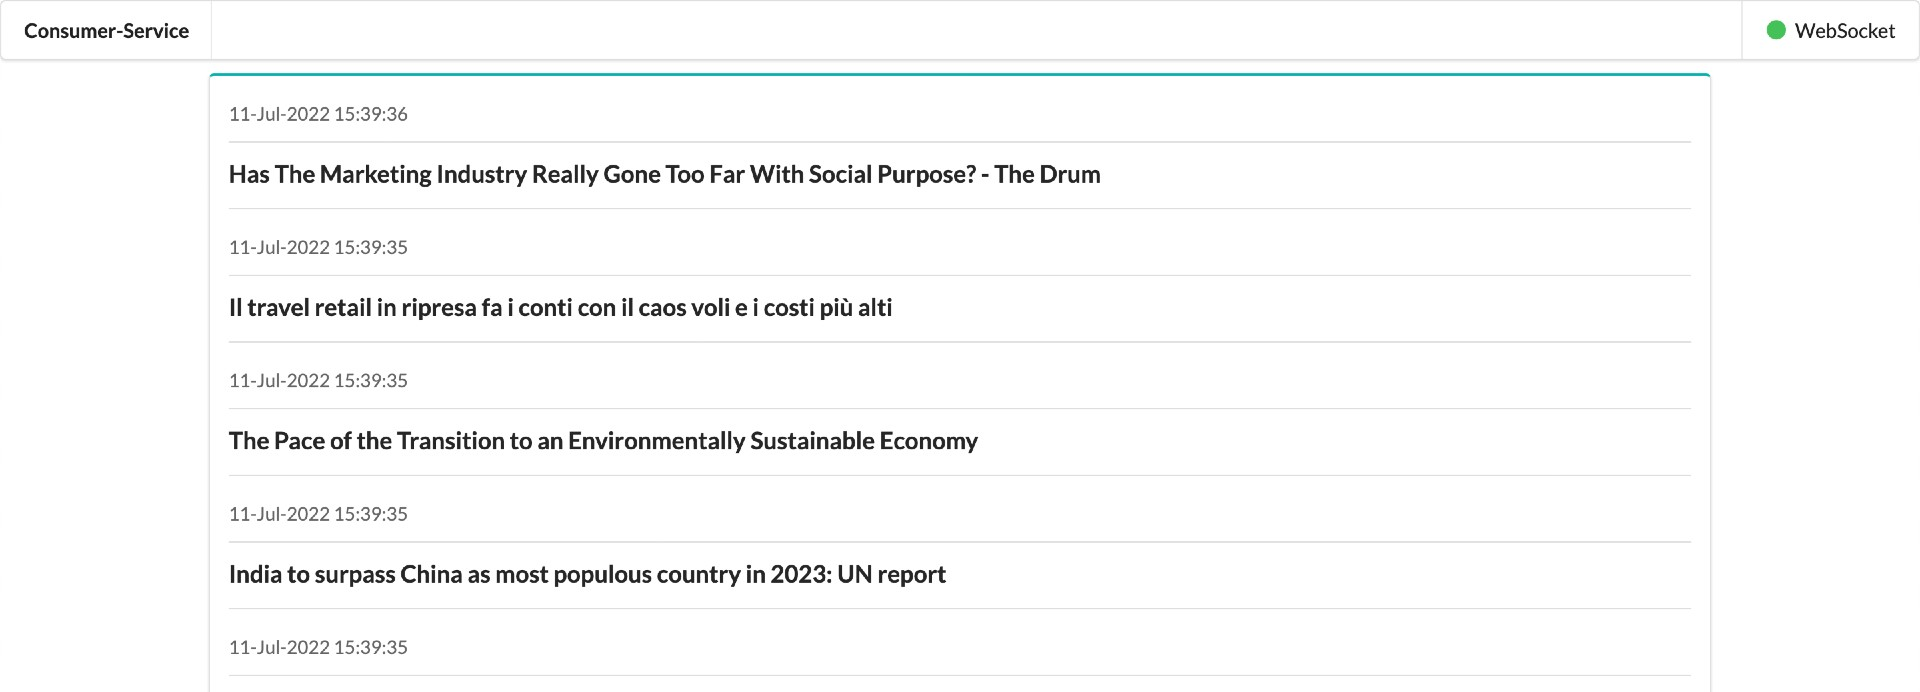
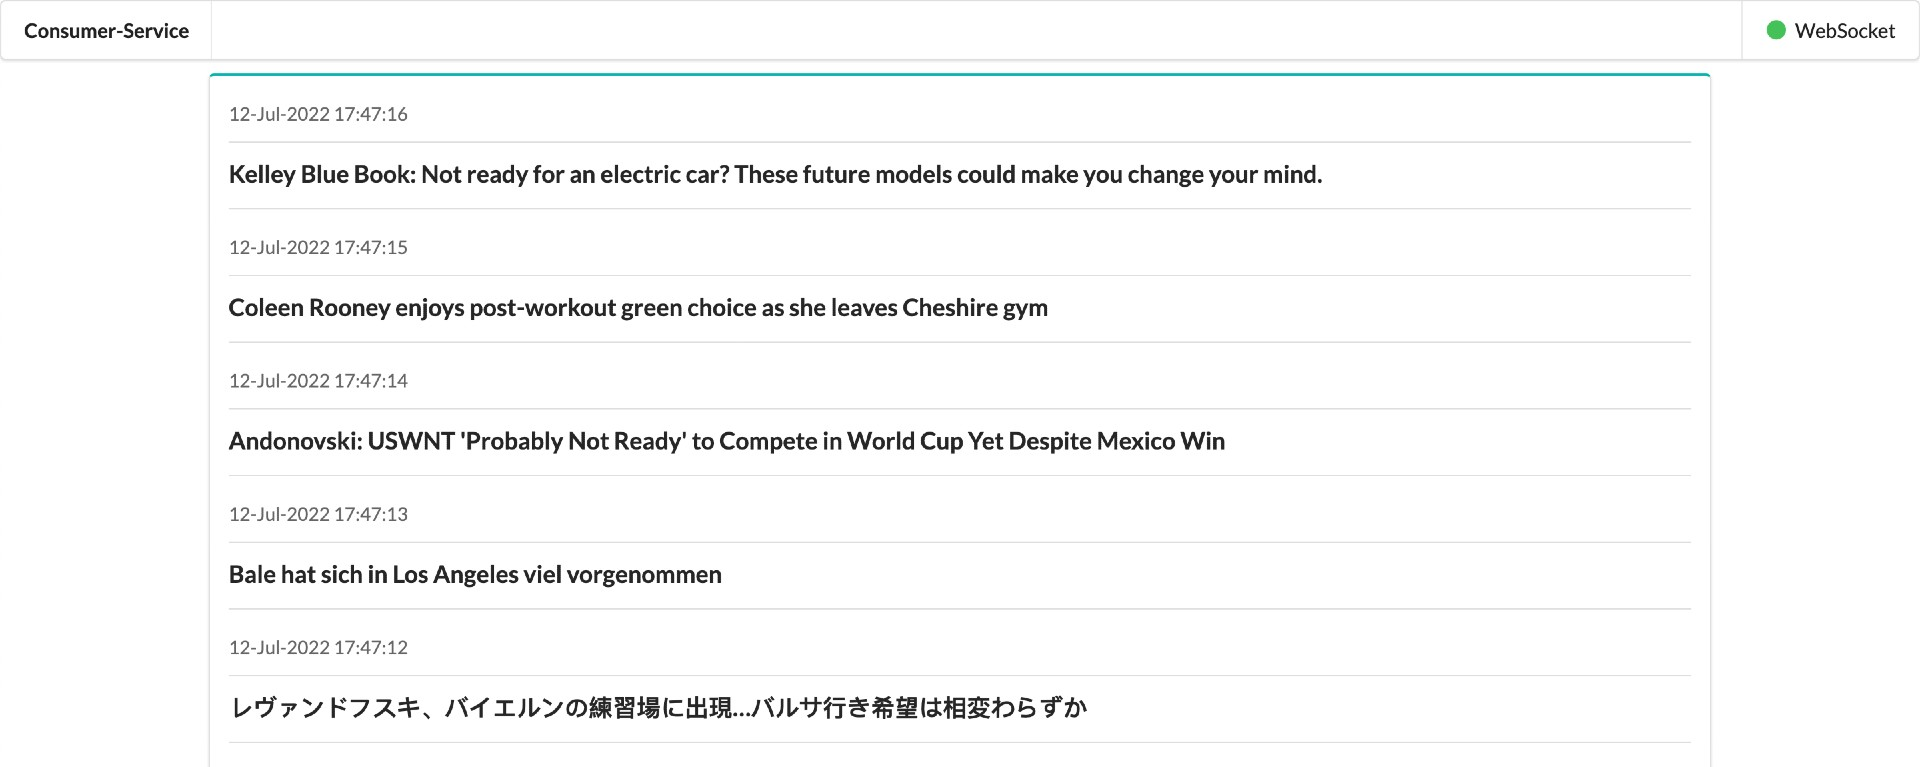
update README and consumer-service screenshot

diff --git a/README.md b/README.md
@@ -1,6 +1,6 @@
 # springboot-aws-localstack-dynamodb-sns-sqs
 
-In this project, we are going to use [`LocalStack`](https://localstack.cloud/) to simulate locally, some services provided by [`AWS Cloud`](https://aws.amazon.com/) such as [`SNS`](https://aws.amazon.com/sns/) and [`SQS`](https://aws.amazon.com/sqs/).
+In this project, we are going to use [`LocalStack`](https://localstack.cloud/) to simulate locally, some services provided by [`AWS Cloud`](https://aws.amazon.com/) such as [`DynamoDB`](https://aws.amazon.com/dynamodb/), [`SNS`](https://aws.amazon.com/sns/) and [`SQS`](https://aws.amazon.com/sqs/).
 
 ## Project Architecture
 
@@ -10,11 +10,11 @@ In this project, we are going to use [`LocalStack`](https://localstack.cloud/) t
 
 - ### producer-service
 
-  [`Spring Boot`](https://docs.spring.io/spring-boot/docs/current/reference/htmlsingle/) Java Web application that exposes a REST API to publish news.
+  [`Spring Boot`](https://docs.spring.io/spring-boot/docs/current/reference/htmlsingle/) Java Web application that exposes a REST API to publish news. All news, before being published to `SNS`, are saved in `DynamoDB`.
 
 - ### consumer-service
 
-  `Spring Boot` Java Web application that consumes the news published by `producer-service`
+  `Spring Boot` Java Web application that consumes the news published by `producer-service`. The news are queued in `SQS`.
 
 ## Prerequisites
 
@@ -95,7 +95,7 @@ In this project, we are going to use [`LocalStack`](https://localstack.cloud/) t
 | Application        | Type    | URL                                         | Screenshot                                              |
 |--------------------|---------|---------------------------------------------|---------------------------------------------------------|
 | `producer-service` | Swagger | http://localhost:9080/swagger-ui/index.html | ![swagger](documentation/producer-service-swagger.jpeg) |
-| `consumer-service` | UI      | http://localhost:9081/                      | ![swagger](documentation/consumer-service-ui.jpeg)      |
+| `consumer-service` | UI      | http://localhost:9081                       | ![swagger](documentation/consumer-service-ui.jpeg)      |
 
 ## Publishing news
 
